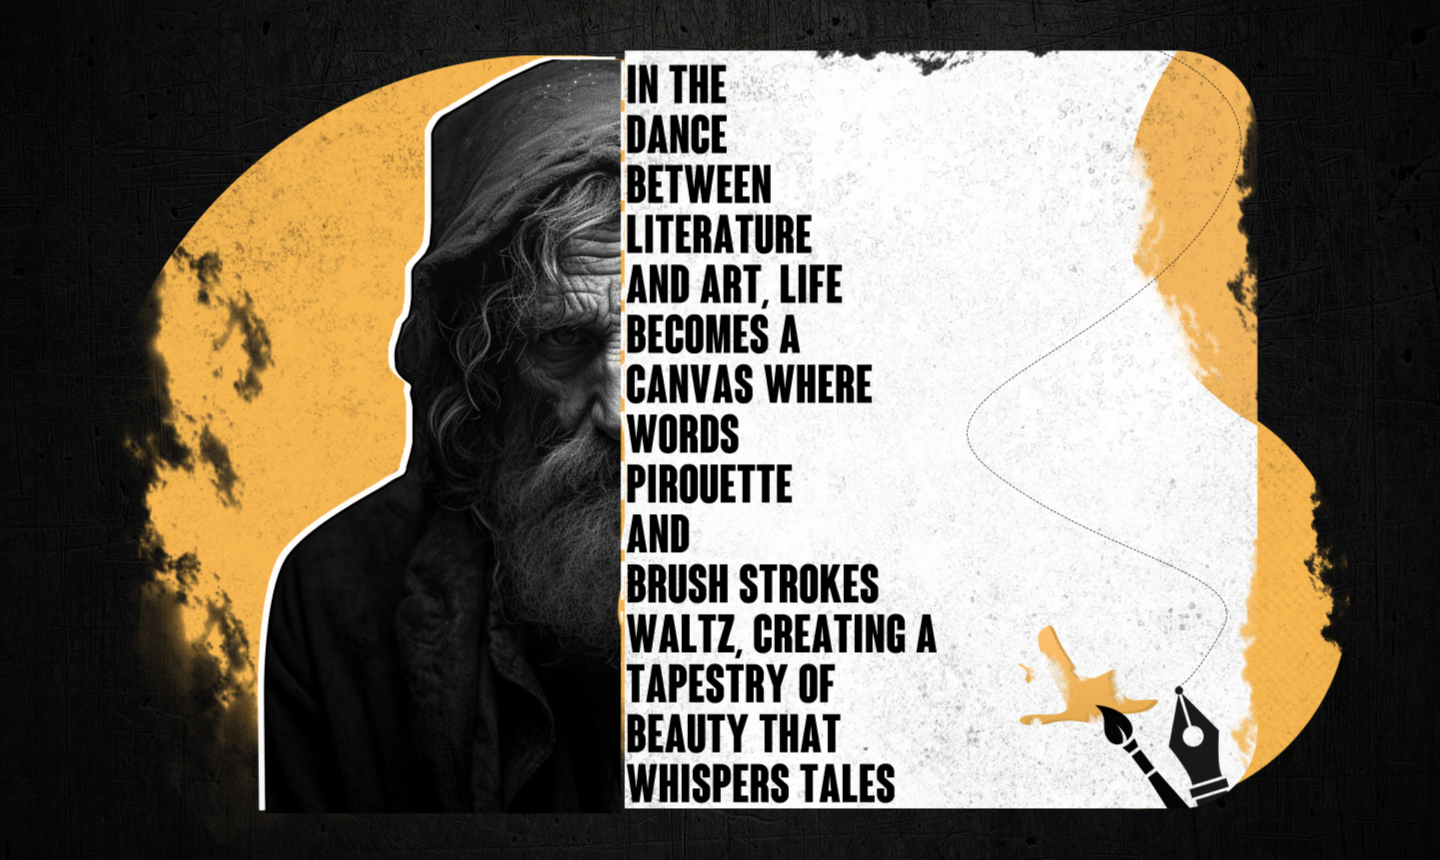
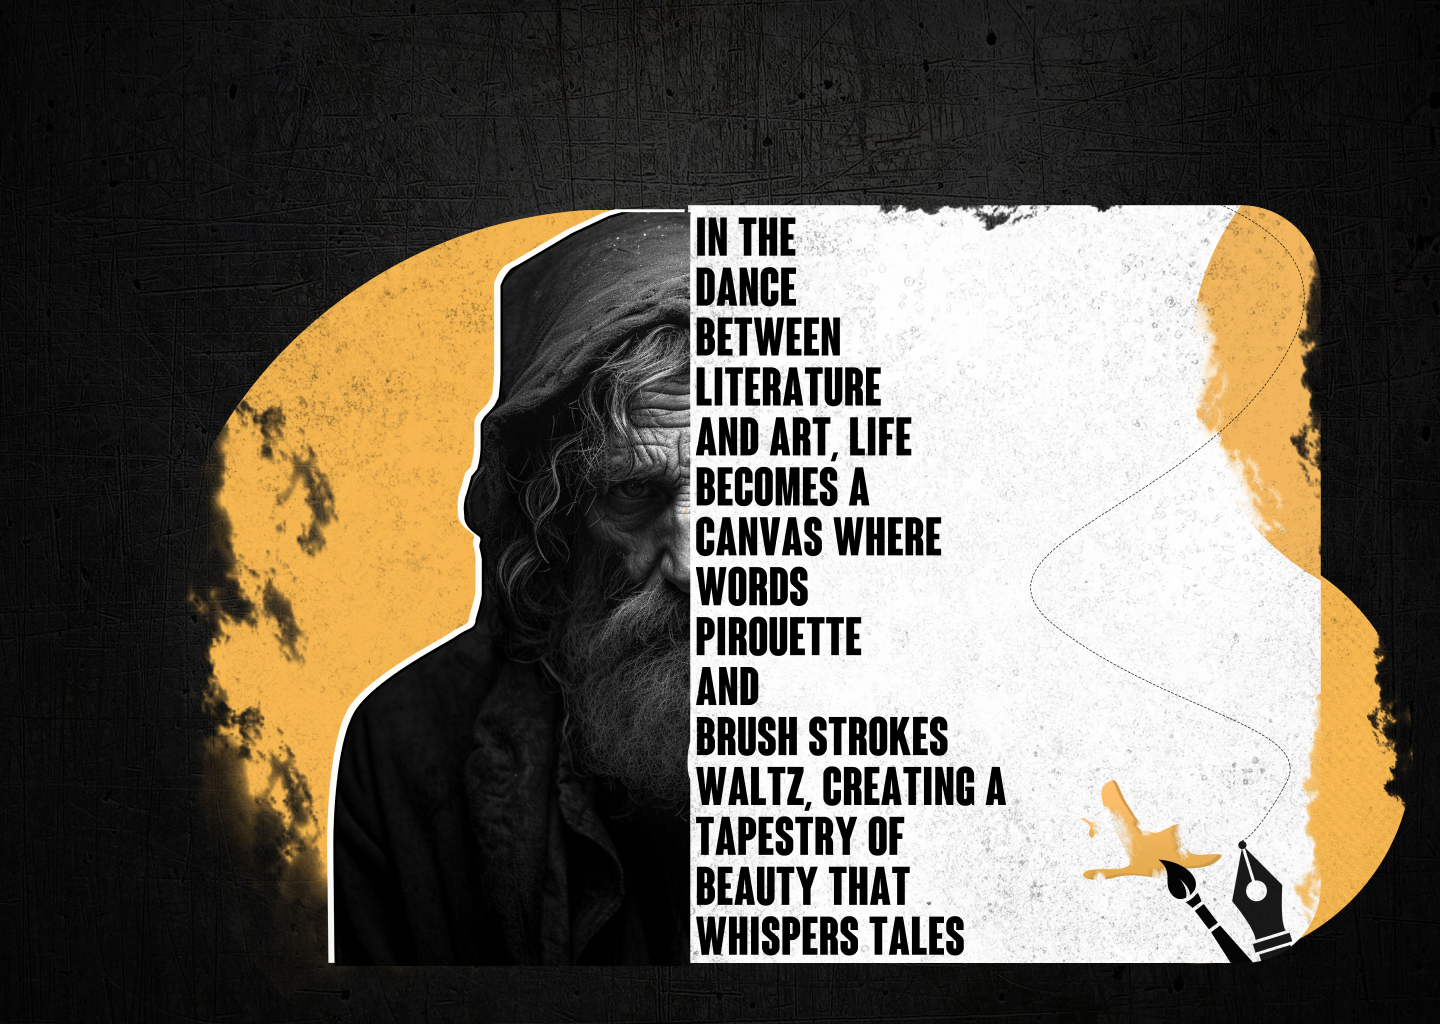
Home Page Imporved

diff --git a/pages/Home.jsx b/pages/Home.jsx
@@ -3,11 +3,35 @@ import Image from "next/image";
 
 function Home() {
   return (
-    <>
-      <div className="responsive x-0 y-0 object-cover">
-        <Image src="/HomePageBG.png" width={1530} height={860} />
+    <div
+      className="relative flex items-center justify-center h-[400px] p-4 sm:h-[600px] md:h-[700px] lg:h-[800px] object-contain"
+      style={{ backgroundImage: `url(/HomeBg1.png)` }}
+    >
+      <div
+        className="absolute inset-0 bg-cover bg-center"
+        style={{ backgroundImage: `url(/HomeBg1.png)` }}
+      ></div>
+
+      <div className="relative flex items-center justify-center z-10">
+        <Image
+          src="/HomeBg2.png"
+          width={960}
+          height={660}
+          className="relative z-10"
+          alt="Background Image"
+        />
+        <div className="absolute flex items-center justify-center space-x-0 z-20">
+          <Image
+            src="/HomeBgTxt.png"
+            width={800}
+            height={900}
+            className="z-20 mb-16"
+            alt="Foreground Image 3"
+          />
+        </div>
       </div>
-    </>
+    </div>
   );
 }
+
 export default Home;
